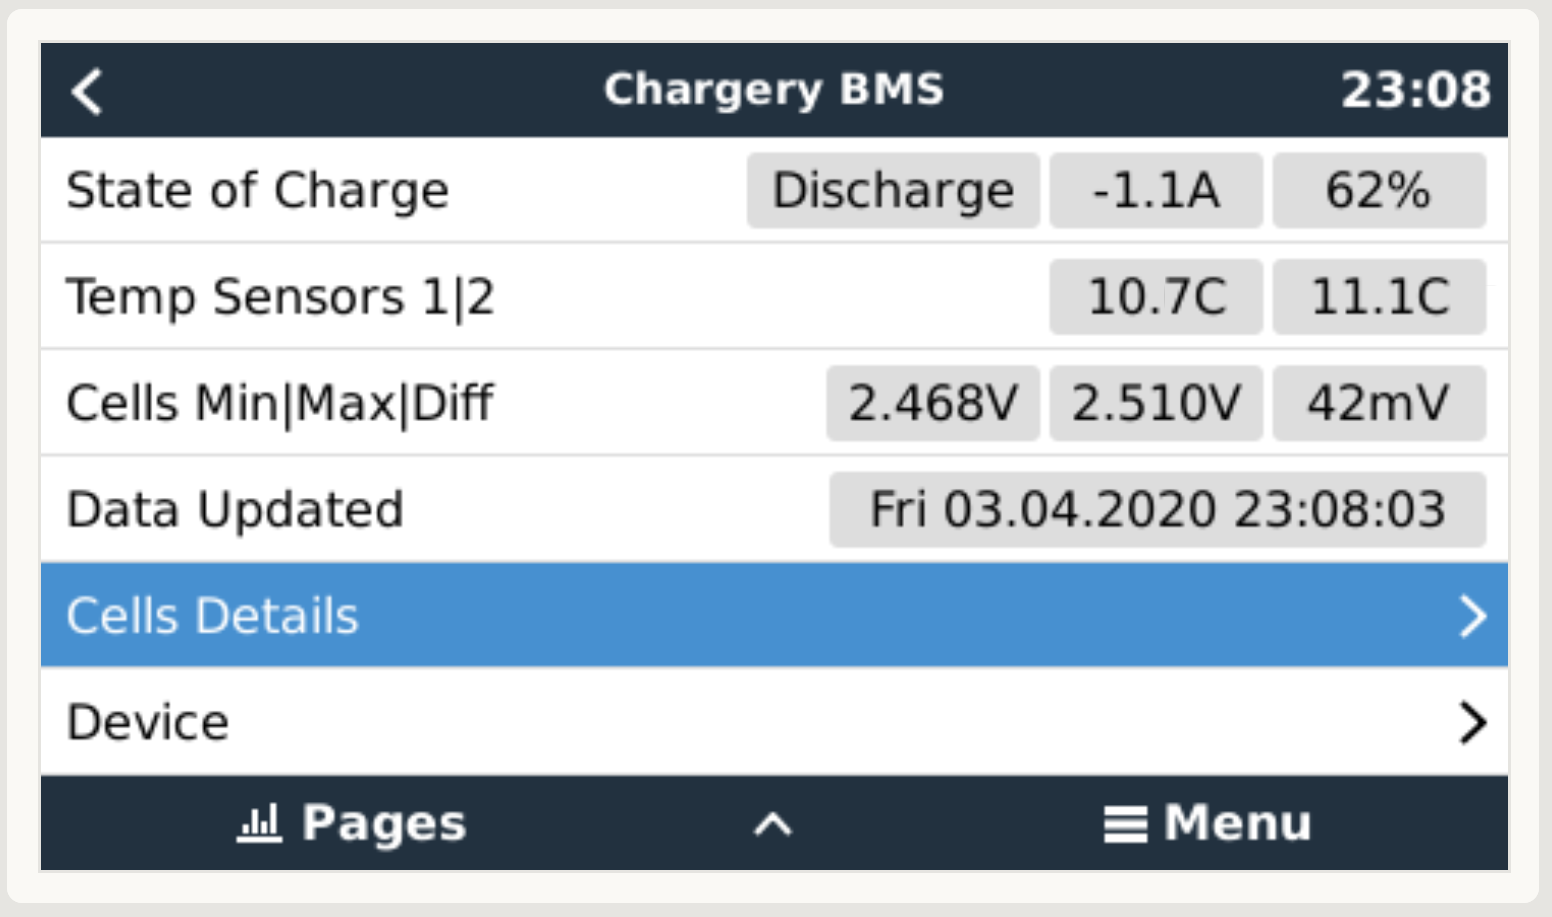
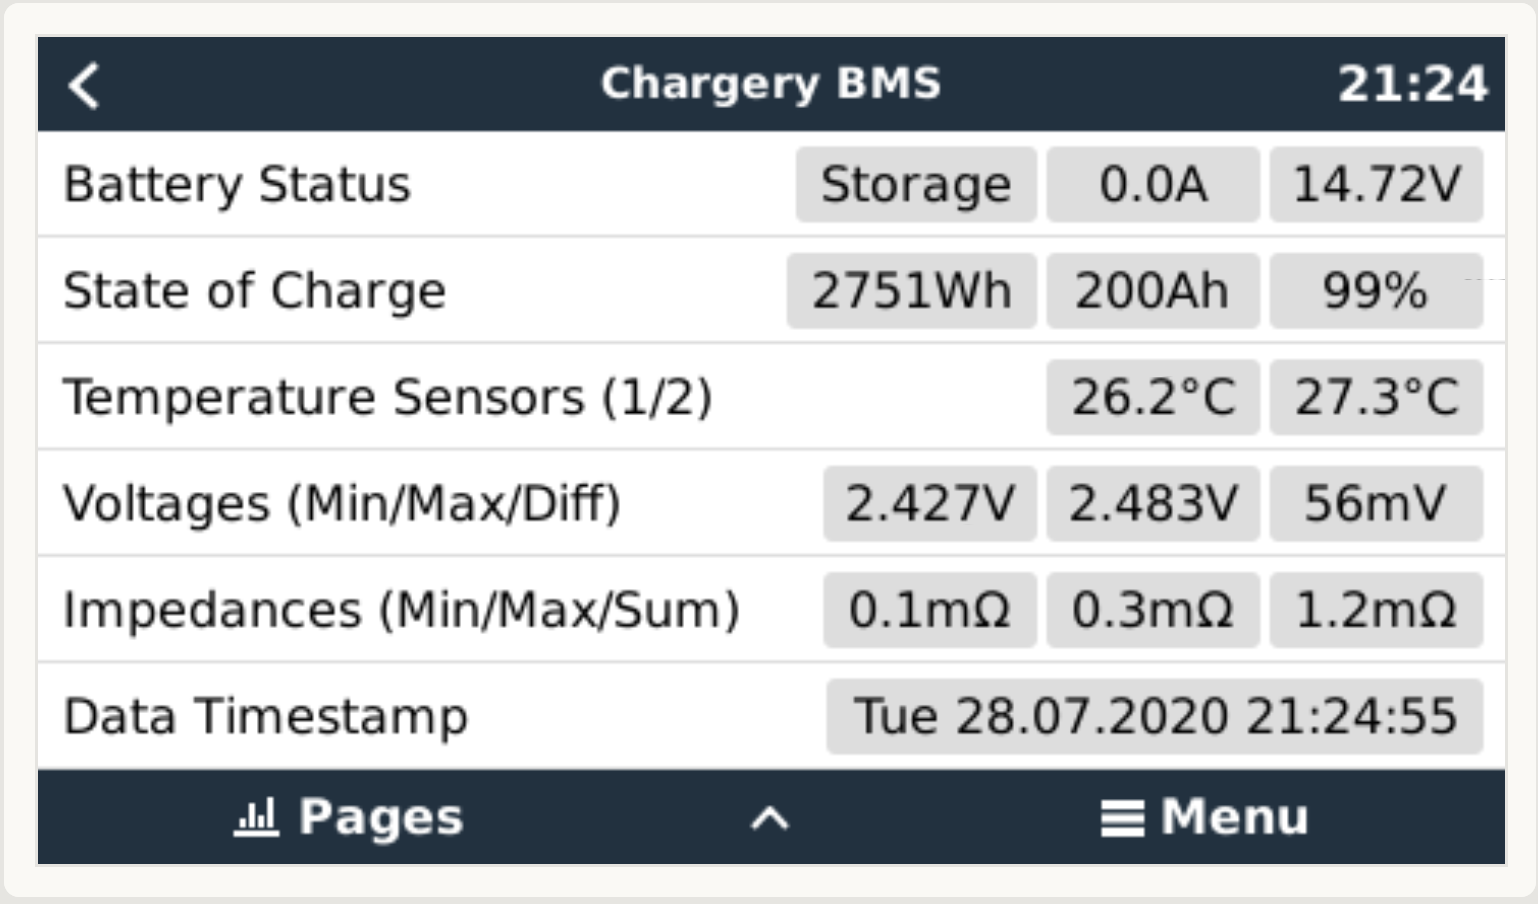
some minor updates

diff --git a/gui/qml/PageBatteryChargeryBMS.qml b/gui/qml/PageBatteryChargeryBMS.qml
@@ -75,7 +75,7 @@ MbPage {
 
 
 		MbSubMenu {
-			description: qsTr("Cells Voltages")
+			description: qsTr("Cell Voltages")
 			subpage: Component {
 				PageBatteryChargeryBMSVoltages {
 					bindPrefix: service.path("")
@@ -84,7 +84,7 @@ MbPage {
 		}
 
 		MbSubMenu {
-			description: qsTr("Cells Impedances")
+			description: qsTr("Cell Impedances")
 			subpage: Component {
 				PageBatteryChargeryBMSImpedances {
 					bindPrefix: service.path("")

diff --git a/gui/qml/PageBatteryChargeryBMSImpedances.qml b/gui/qml/PageBatteryChargeryBMSImpedances.qml
@@ -7,7 +7,7 @@ MbPage {
 
 	property string bindPrefix
 	property BatteryDetails details: BatteryDetails { bindPrefix: root.bindPrefix }
-	title: service.description + " | Cells Impedances"
+	title: service.description + " | Cell Impedances"
 
 	model: VisualItemModel {
 

diff --git a/gui/qml/PageBatteryChargeryBMSVoltages.qml b/gui/qml/PageBatteryChargeryBMSVoltages.qml
@@ -7,7 +7,7 @@ MbPage {
 
 	property string bindPrefix
 	property BatteryDetails details: BatteryDetails { bindPrefix: root.bindPrefix }
-	title: service.description + " | Cells Voltages"
+	title: service.description + " | Cell Voltages"
 
 	model: VisualItemModel {
 

diff --git a/driver/chargerybms.py b/driver/chargerybms.py
@@ -881,7 +881,7 @@ def parse_packet(packet):
 
 
 								# print (BMS_STATUS)
-								logging.info("BMS status [SOC|" + BMS_STATUS['bms']['soc']['text'] +
+								logging.info("BMS Status [SOC|" + BMS_STATUS['bms']['soc']['text'] +
 									"][MODE|" + BMS_STATUS['bms']['current_mode']['text'] + 
 									"][CURRENT|" + BMS_STATUS['bms']['current']['text'] + 
 									"][T1|" + BMS_STATUS['bms']['temperature']['sensor_t1']['text'] + 
@@ -1242,7 +1242,7 @@ def parse_packet(packet):
 								# print (BMS_STATUS)
 								if (packet_length == PACKET_LENGTH_STATUS_CELLS[0]): # packet from BMS8
 								
-									logging.info("BMS8 cells " +
+									logging.info("BMS Voltages " +
 										"[CAPACITYAH|" + BMS_STATUS['voltages']['battery_capacity_ah']['text'] +
 										"][CAPACITYWH|" + BMS_STATUS['voltages']['battery_capacity_wh']['text'] +
 										"][DIFF|" + BMS_STATUS['voltages']['agg_voltages']['diff']['text'] +
@@ -1258,7 +1258,7 @@ def parse_packet(packet):
 
 								elif (packet_length == PACKET_LENGTH_STATUS_CELLS[1]): # packet from BMS16
 
-									logging.info("BMS16 cells " +
+									logging.info("BMS Voltages " +
 										"[CAPACITYAH|" + BMS_STATUS['voltages']['battery_capacity_ah']['text'] +
 										"][CAPACITYWH|" + BMS_STATUS['voltages']['battery_capacity_wh']['text'] +
 										"][DIFF|" + BMS_STATUS['voltages']['agg_voltages']['diff']['text'] +
@@ -1283,7 +1283,7 @@ def parse_packet(packet):
 
 								elif (packet_length == PACKET_LENGTH_STATUS_CELLS[2]): # packet from BMS24
 
-									logging.info("BMS24 cells " +
+									logging.info("BMS Voltages " +
 										"[CAPACITYAH|" + BMS_STATUS['voltages']['battery_capacity_ah']['text'] +
 										"][CAPACITYWH|" + BMS_STATUS['voltages']['battery_capacity_wh']['text'] +
 										"][DIFF|" + BMS_STATUS['voltages']['agg_voltages']['diff']['text'] +
@@ -1459,7 +1459,7 @@ def parse_packet(packet):
 									dbusservice["/Impedances/UpdateTimestamp"] = BMS_STATUS['impedances']['timestamp']['text']
 									dbusservice["/Raw/Impedances/UpdateTimestamp"] = BMS_STATUS['impedances']['timestamp']['value']
 
-								logging.info("BMS impedances " +
+								logging.info("BMS Impedances " +
 									"][MODE1|" + BMS_STATUS['impedances']['current_mode1']['text'] +
 									"][CURRENT1|" + BMS_STATUS['impedances']['current1']['text'] +
 									"][SUM|"  + BMS_STATUS['impedances']['agg_impedances']['sum']['text'] +

diff --git a/README.MD b/README.MD
@@ -8,7 +8,8 @@ This project embeds the Chargery BMS to a Victron Energy Venus OS device to moni
 
 ![Overview](https://raw.githubusercontent.com/Tobi177/venus-chargerybms/master/examples/overview.png)
 ![ChargeryBMS](https://raw.githubusercontent.com/Tobi177/venus-chargerybms/master/examples/chargerybms.png)
-![ChargeryBMS Cells](https://raw.githubusercontent.com/Tobi177/venus-chargerybms/master/examples/chargerybmscells.png)
+![ChargeryBMS Voltages](https://raw.githubusercontent.com/Tobi177/venus-chargerybms/master/examples/chargerybmsvoltages.png)
+![ChargeryBMS Impedances](https://raw.githubusercontent.com/Tobi177/venus-chargerybms/master/examples/chargerybmsimpedances.png)
 
 # Requirements
 
@@ -21,9 +22,6 @@ This project embeds the Chargery BMS to a Victron Energy Venus OS device to moni
  - TBD
 
 # Notes
-- Proof-of-Concept style
-- Only the Chargery BMS16T is currently supported. However the sources can very easily be changed to support BMS8T and BMS24T as well.
-- No multiple languages
 - No scripts to resetup the changes automatically on update of Venus OS
-- The devices are "hard-coded" at the qml files, must be adapted (VE.direct devices, etc) 
+- The devices are "hard-coded" at the overview qml file, must be adapted (VE.direct devices, etc) 
 
